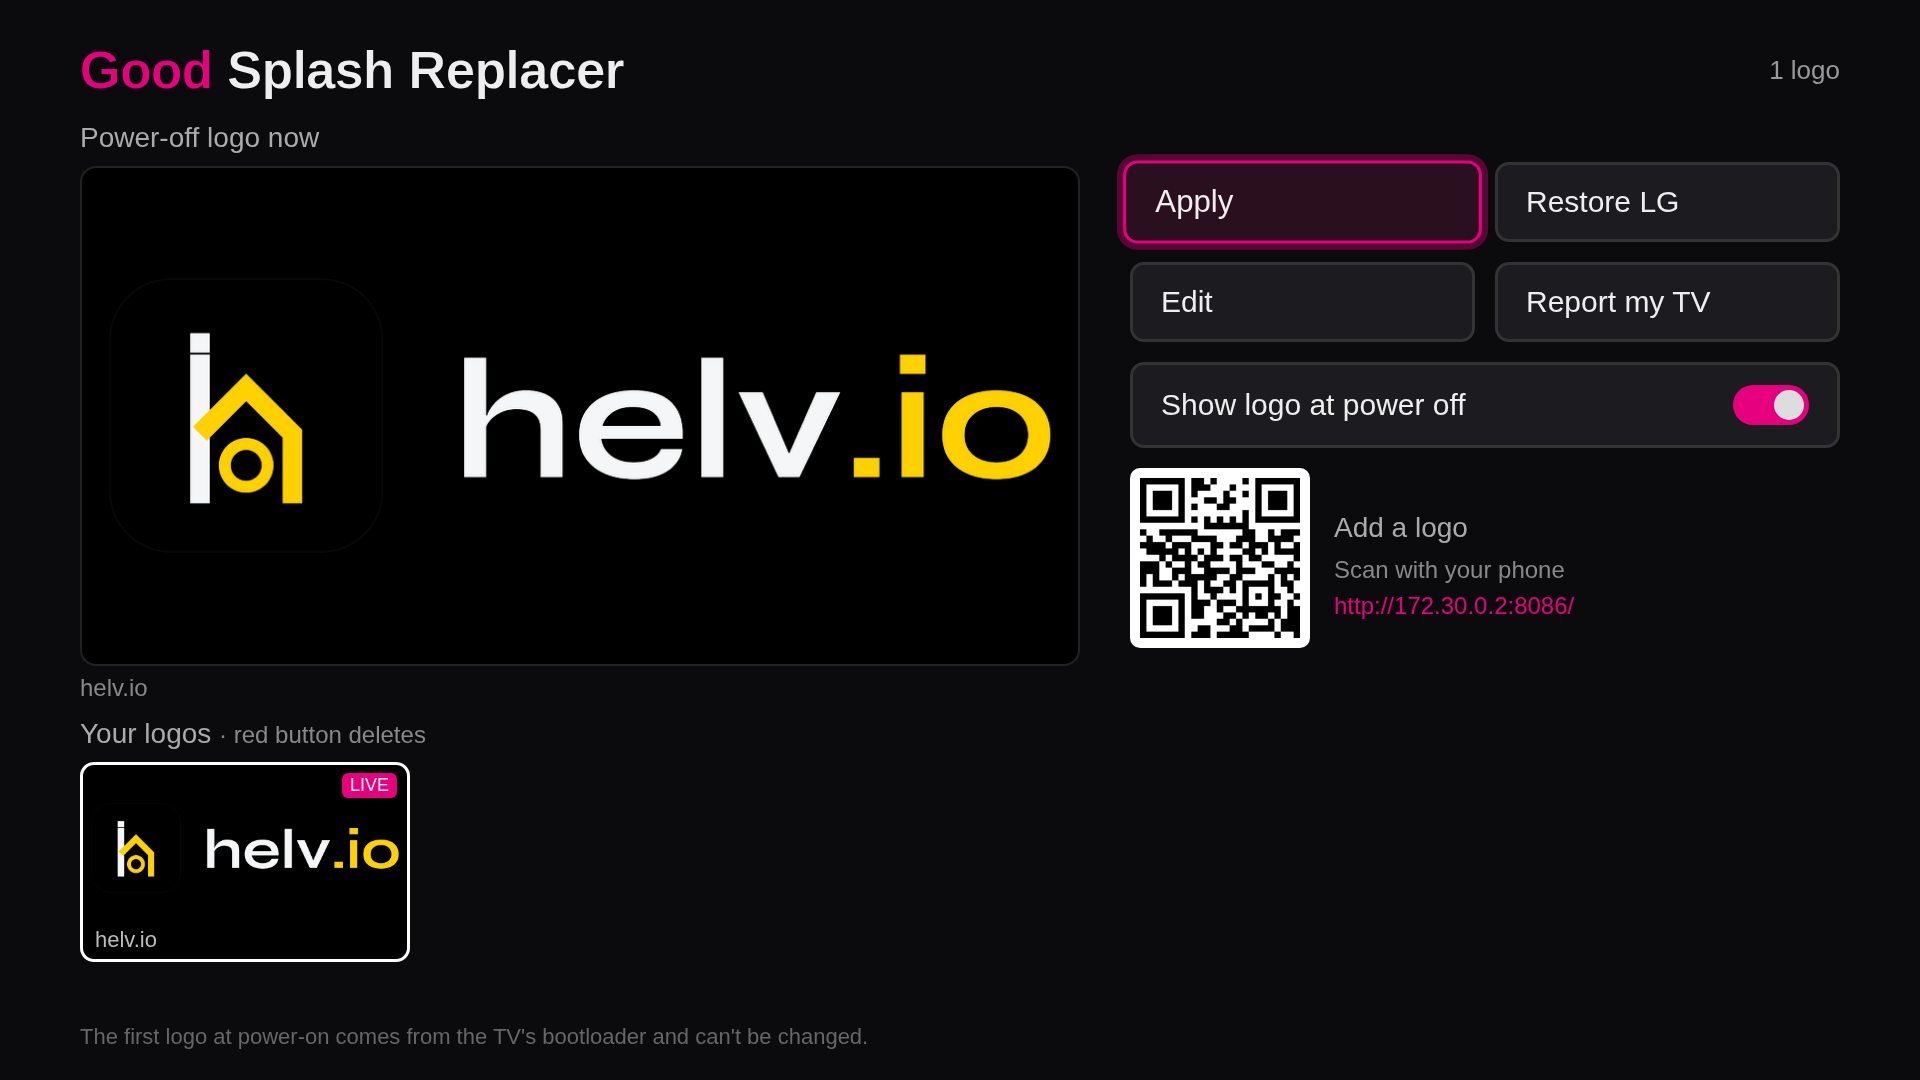
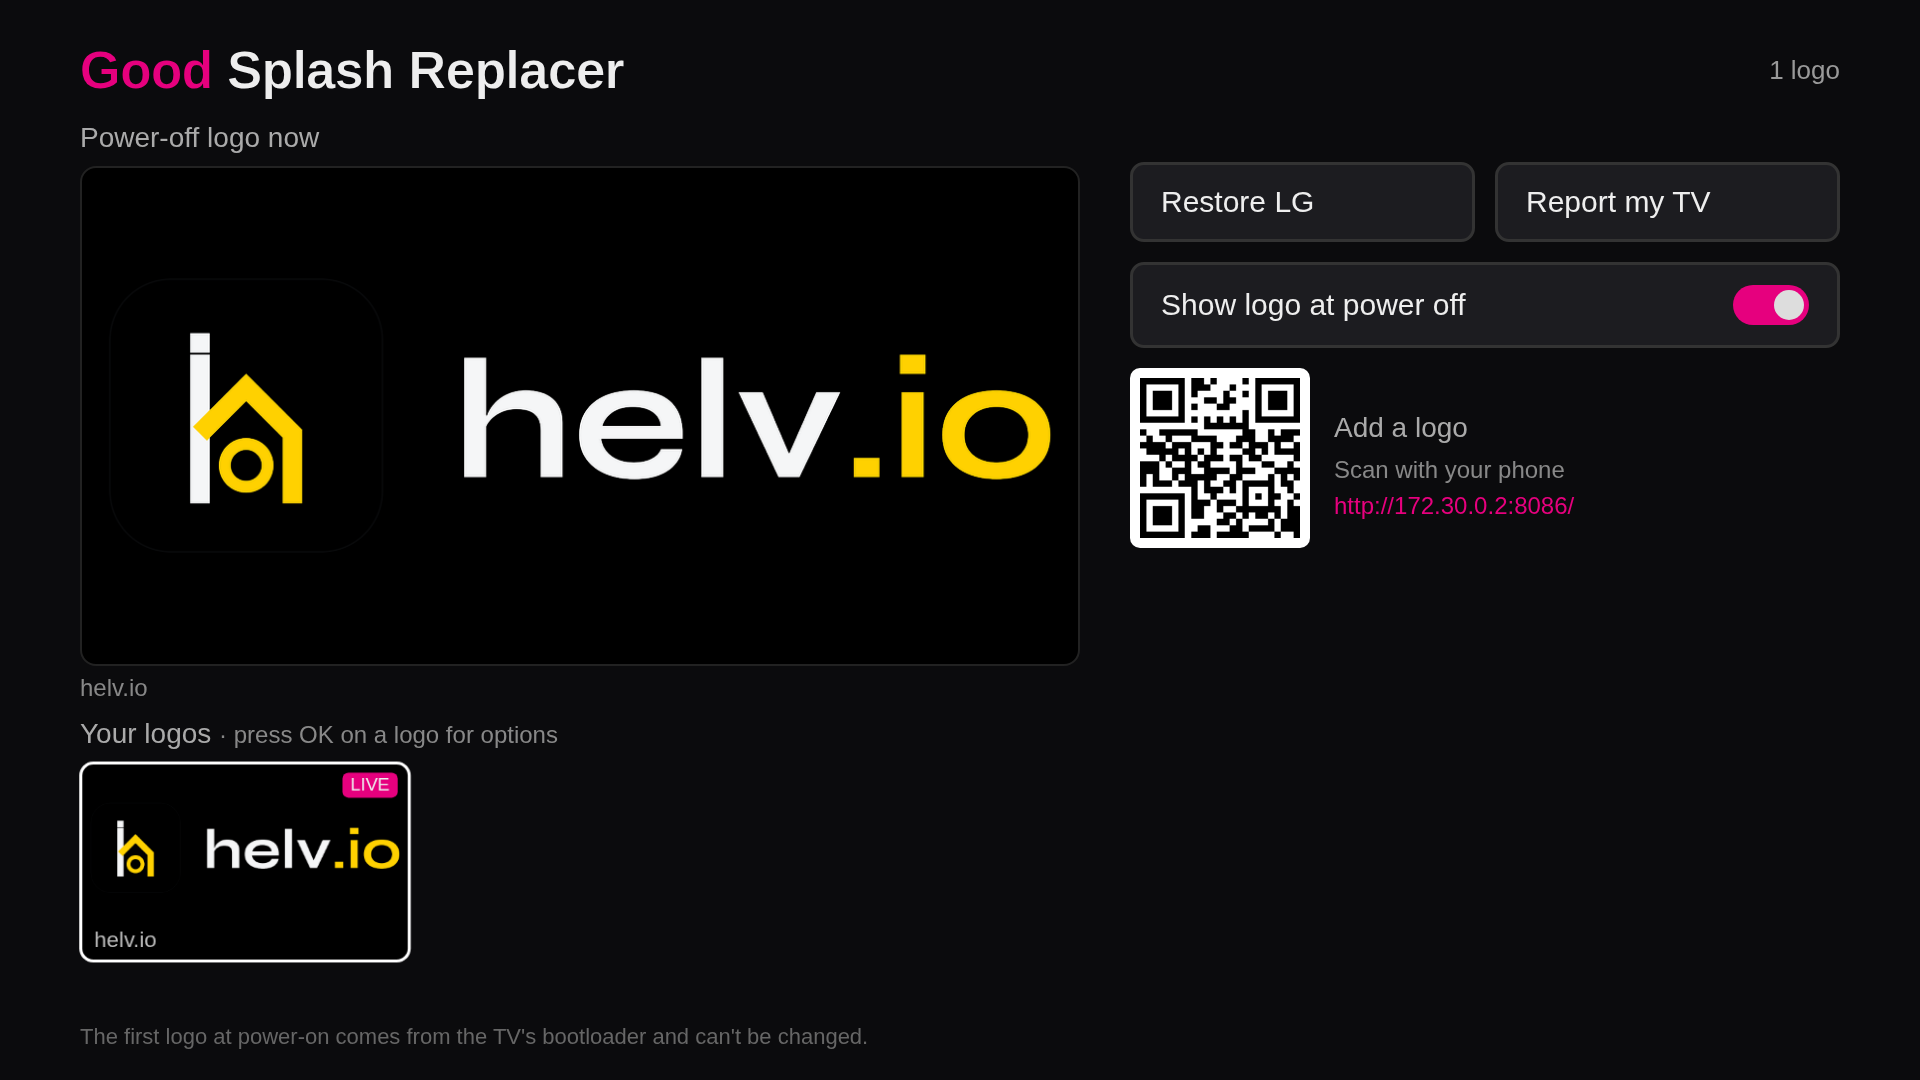
Remote without color buttons
OK on a logo opens Apply, Edit, Delete and Cancel. Delete asks first with Cancel focused. Back closes the menu or dialog, then exits. The red-button delete and the top Apply and Edit buttons are gone. A test keeps the app to arrows, OK and Back.

diff --git a/app/app.js b/app/app.js
@@ -4,7 +4,7 @@ function readLocal(f) { try { var x = new XMLHttpRequest(); x.open('GET', f, fal
 var CONFIG = readLocal('service/config.json') || { port: 8086 }, APPINFO = readLocal('appinfo.json') || {};
 var API = 'http://127.0.0.1:' + CONFIG.port;
 var st = null, sel = null, ver = 0, bridges = [], restarted = false, rerendering = {};
-var view = 'main', ed = null, pendingDel = null;
+var view = 'main', ed = null, menuId = null;
 
 function $(i) { return document.getElementById(i); }
 function toast(t) { var e = $('toast'); e.textContent = t; e.style.opacity = 1; clearTimeout(toast.t); toast.t = setTimeout(function () { e.style.opacity = 0; }, 2500); }
@@ -88,7 +88,37 @@ function drawEditor() {
   $('knockbtn').textContent = 'Black → transparent: ' + (o.knock ? 'on' : 'off');
   $('thr').textContent = 'Threshold ' + o.threshold;
 }
-function closeOverlay() { view = 'main'; ed = null; $('editor').classList.add('hidden'); $('reportbox').classList.add('hidden'); render(); $('apply').focus(); }
+function closeOverlay() {
+  view = 'main'; ed = null;
+  ['editor', 'reportbox', 'menu', 'confirm'].forEach(function (i) { $(i).classList.add('hidden'); });
+  render(); focusMain();
+}
+function focusMain() {
+  var t = menuId && document.querySelector('.tile[data-id="' + menuId + '"]');
+  (t || document.querySelector('.tile') || $('restore')).focus();
+}
+// ---------- item menu and delete confirmation ----------
+function itemName(id) { var it = st.items.filter(function (i) { return i.id == id; })[0]; return it ? it.name : ''; }
+function openMenu(id) {
+  menuId = id; sel = id; view = 'menu';
+  $('menuname').textContent = itemName(id); $('menu').classList.remove('hidden');
+  document.querySelector('#menu .m').focus();
+}
+function menuAction(a) {
+  var id = menuId;
+  if (a == 'cancel') return closeOverlay();
+  if (a == 'apply') { closeOverlay(); return act('/api/apply?id=' + id, 'Applied'); }
+  if (a == 'edit') { $('menu').classList.add('hidden'); view = 'main'; return openEditor(); }
+  if (a == 'delete') {
+    $('menu').classList.add('hidden'); view = 'confirm';
+    $('confirmname').textContent = itemName(id); $('confirm').classList.remove('hidden');
+    document.querySelector('#confirm [data-c="cancel"]').focus();
+  }
+}
+function confirmAction(c) {
+  var id = menuId; closeOverlay();
+  if (c == 'delete') { menuId = null; act('/api/delete?id=' + id, 'Deleted'); }
+}
 function edAction(a) {
   var o = ed.o, step = 0.02;
   if (a == 'fit' || a == 'fill') { o.mode = a; o.zoom = 1; o.dx = 0; o.dy = 0; }
@@ -132,17 +162,17 @@ function exitApp() {
 }
 function activate(el) {
   if (!el) return;
-  if (el.id == 'apply') { if (!sel) return toast('pick a logo first'); act('/api/apply?id=' + sel, 'Applied'); }
-  else if (el.id == 'restore') act('/api/restore', 'LG logo restored');
+  if (el.id == 'restore') act('/api/restore', 'LG logo restored');
   else if (el.id == 'toggle') act('/api/logo-display?value=' + ($('tg').className == 'on' ? 'off' : 'on'), 'Saved');
-  else if (el.id == 'edit') openEditor();
   else if (el.id == 'report') openReport();
   else if (el.id == 'repclose') closeOverlay();
   else if (el.dataset.a) edAction(el.dataset.a);
-  else if (el.dataset.id) { sel = el.dataset.id; render(); }
+  else if (el.dataset.m) menuAction(el.dataset.m);
+  else if (el.dataset.c) confirmAction(el.dataset.c);
+  else if (el.dataset.id) openMenu(el.dataset.id);
 }
 function focusables() {
-  var q = view == 'editor' ? '#editor .e' : view == 'report' ? '#reportbox .r' : '.f,.tile';
+  var q = { editor: '#editor .e', report: '#reportbox .r', menu: '#menu .m', confirm: '#confirm .c' }[view] || '.f,.tile';
   return [].slice.call(document.querySelectorAll(q));
 }
 function move(dx, dy) {
@@ -162,13 +192,9 @@ document.addEventListener('keydown', function (e) {
   var k = e.keyCode, a = document.activeElement;
   if (k == 37) move(-1, 0); else if (k == 39) move(1, 0); else if (k == 38) move(0, -1); else if (k == 40) move(0, 1);
   else if (k == 13) activate(a);
-  else if ((k == 403 || k == 46) && view == 'main' && a && a.dataset.id) {
-    if (pendingDel == a.dataset.id) { act('/api/delete?id=' + pendingDel, 'Deleted'); pendingDel = null; }
-    else { pendingDel = a.dataset.id; toast('Press red again to delete'); }
-  }
   else if (k == 461 || k == 8 || k == 27) { e.preventDefault(); if (view != 'main') closeOverlay(); else exitApp(); return; }
   else return;
   e.preventDefault();
 });
 refresh(true); loadToggle(); setInterval(refresh, 2000);
-setTimeout(function () { $('apply').focus(); }, 300);
+setTimeout(focusMain, 300);

diff --git a/app/index.html b/app/index.html
@@ -5,13 +5,12 @@
  <section class="top">
   <div class="cur"><div class="lbl">Power-off logo now</div><div class="stage"><img id="curimg" alt=""></div><div id="curname" class="sub"></div></div>
   <div class="side">
-   <div class="pair"><button class="f btn primary" id="apply">Apply</button><button class="f btn" id="restore">Restore LG</button></div>
-   <div class="pair"><button class="f btn" id="edit">Edit</button><button class="f btn" id="report">Report my TV</button></div>
+   <div class="pair"><button class="f btn" id="restore">Restore LG</button><button class="f btn" id="report">Report my TV</button></div>
    <button class="f btn toggle" id="toggle"><span>Show logo at power off</span><i id="tg"></i></button>
    <div class="qrbox"><div id="qr" class="qr"></div><div><div class="lbl">Add a logo</div><div class="sub">Scan with your phone</div><div id="url" class="url"></div></div></div>
   </div>
  </section>
- <section><div class="lbl">Your logos <span class="sub">· red button deletes</span></div><div id="grid"></div></section>
+ <section><div class="lbl">Your logos <span class="sub">· press OK on a logo for options</span></div><div id="grid"></div></section>
 </main>
 <footer>The first logo at power-on comes from the TV's bootloader and can't be changed.</footer>
 
@@ -42,5 +41,14 @@
   <div class="repside"><div id="repqr" class="qr big"></div><div class="sub">Scan to open a GitHub issue with this report</div>
    <button class="r btn" id="repclose">Close</button></div></div>
 </div>
+<div id="menu" class="modal hidden"><div class="card">
+ <h3 id="menuname"></h3>
+ <button class="m btn primary" data-m="apply">Apply</button><button class="m btn" data-m="edit">Edit</button>
+ <button class="m btn" data-m="delete">Delete</button><button class="m btn" data-m="cancel">Cancel</button>
+</div></div>
+<div id="confirm" class="modal hidden"><div class="card">
+ <h3>Delete <span id="confirmname"></span>?</h3>
+ <div class="pair"><button class="c btn" data-c="delete">Delete</button><button class="c btn" data-c="cancel">Cancel</button></div>
+</div></div>
 <div id="toast"></div>
 <script src="app.js"></script></body></html>

diff --git a/test/remote.test.js b/test/remote.test.js
@@ -1,0 +1,27 @@
+'use strict';
+// The TV app must work with a remote that has only arrows, OK and Back: no color or number keys.
+const test = require('node:test');
+const assert = require('node:assert/strict');
+const fs = require('fs'), path = require('path');
+const app = fs.readFileSync(path.join(__dirname, '..', 'app', 'app.js'), 'utf8');
+const html = fs.readFileSync(path.join(__dirname, '..', 'app', 'index.html'), 'utf8');
+
+test('only arrows, OK and Back key codes are handled', () => {
+  const codes = [...app.matchAll(/\bk == (\d+)/g)].map(m => Number(m[1]));
+  const allowed = [37, 38, 39, 40, 13, 461, 8, 27];
+  assert.ok(codes.length >= 6);
+  for (const c of codes) assert.ok(allowed.includes(c), 'unexpected key code ' + c);
+});
+
+test('no hint mentions a color button', () => {
+  assert.doesNotMatch(html + app, /\b(red|green|yellow|blue) (button|key)/i);
+});
+
+test('every overlay has its own focus set so arrows never leave it', () => {
+  for (const v of ['editor', 'report', 'menu', 'confirm']) assert.match(app, new RegExp(v + ": '#"));
+});
+
+test('delete asks first and focuses Cancel', () => {
+  assert.match(app, /#confirm \[data-c="cancel"\]'\)\.focus\(\)/);
+  assert.match(html, /data-m="delete"/);
+});

diff --git a/app/style.css b/app/style.css
@@ -39,3 +39,7 @@ footer{position:absolute;bottom:30px;left:80px;font-size:22px;color:#666}
 .rep pre{flex:1;height:820px;margin:0;overflow:hidden;white-space:pre-wrap;word-break:break-all;font-size:21px;line-height:1.35;background:#141418;border-radius:14px;padding:24px;color:#ccc}
 .repside{width:360px;display:flex;flex-direction:column;gap:20px}
 #toast{position:absolute;bottom:90px;right:80px;background:#e6007e;color:#fff;font-size:28px;padding:16px 28px;border-radius:12px;opacity:0;transition:.3s}
+.modal{position:absolute;inset:0;background:rgba(0,0,0,.7);display:flex;align-items:center;justify-content:center}
+.modal.hidden{display:none}
+.card{background:#16161a;border:2px solid #333;border-radius:20px;padding:40px;width:640px;display:flex;flex-direction:column;gap:18px}
+.card h3{margin:0 0 8px;font-size:36px;font-weight:600;white-space:nowrap;overflow:hidden;text-overflow:ellipsis}

diff --git a/README.md b/README.md
@@ -7,13 +7,16 @@ Replace the LG logo on the power-off screen of a rooted LG webOS TV with your ow
 ## Features
 
 - Send a logo from your phone: scan the code on the TV, pick an image, press Send. The preview shows exactly what the TV will show.
-- Apply, Restore LG, and a switch to hide the power-off logo.
+- Works with a basic remote: arrows, OK and Back only. Press OK on a logo for Apply, Edit or Delete; Delete asks first.
+- Restore LG, and a switch to hide the power-off logo.
 - Edit on the TV: Fit or Fill, size, move, background, black to transparent.
 - Report my TV: read-only details about how your TV draws the logo, sent as a GitHub issue in one scan.
 
 | Phone | TV editor |
 | --- | --- |
 | <img src="docs/phone.png" width="300"> | <img src="docs/tv-editor.png" width="560"> |
+
+![Logo options](docs/tv-menu.png)
 
 ## Requirements
 

diff --git a/CHANGELOG.md b/CHANGELOG.md
@@ -2,6 +2,12 @@
 
 All notable changes are listed here. The format follows [Keep a Changelog](https://keepachangelog.com/en/1.1.0/) and versions follow [Semantic Versioning](https://semver.org/spec/v2.0.0.html).
 
+## [0.2.1]
+
+### Changed
+
+- No color buttons needed: OK on a logo opens Apply, Edit, Delete and Cancel. Delete asks first with Cancel focused. Back closes the menu or dialog, then exits
+
 ## [0.2.0]
 
 ### Added
